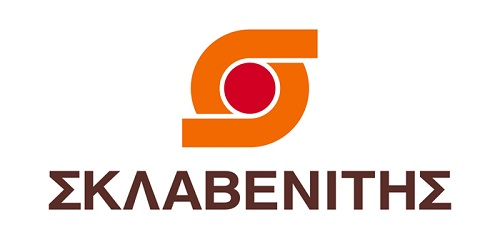
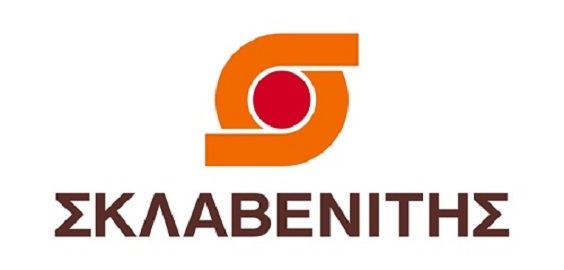
All sponsors resized!

diff --git a/website/index.html b/website/index.html
@@ -265,7 +265,7 @@
 			<div class="sectionBackground sponsors">
 				<section id="sponsors">
 				<div style="float: left; height:287px">
-					<a href="http://www.konstandinidis.gr"><img src="img/Sponsors/KONSTANTINIDHS logo 516x250.jpg"style="height:237px"/></a>
+					<a href="http://www.konstandinidis.gr"><img src="img/Sponsors/KONSTANTINIDHS logo 237.jpg"/></a>
 				</div>
 				<div style="float: right; height:287px">
 					<a href="http://papadopoulou.gr/"><img src="img/Sponsors/papadopoulou.bmp"/></a>
